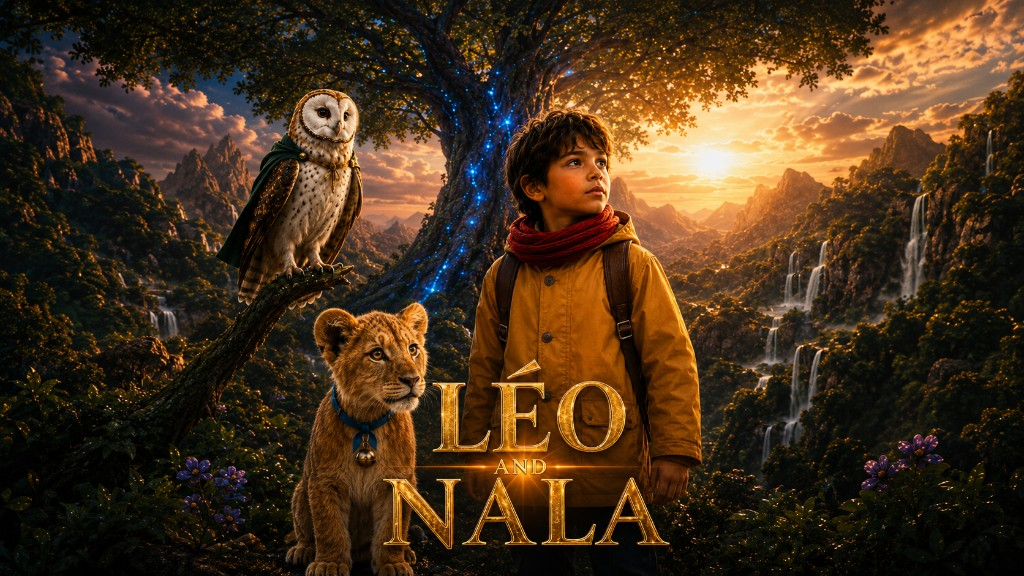
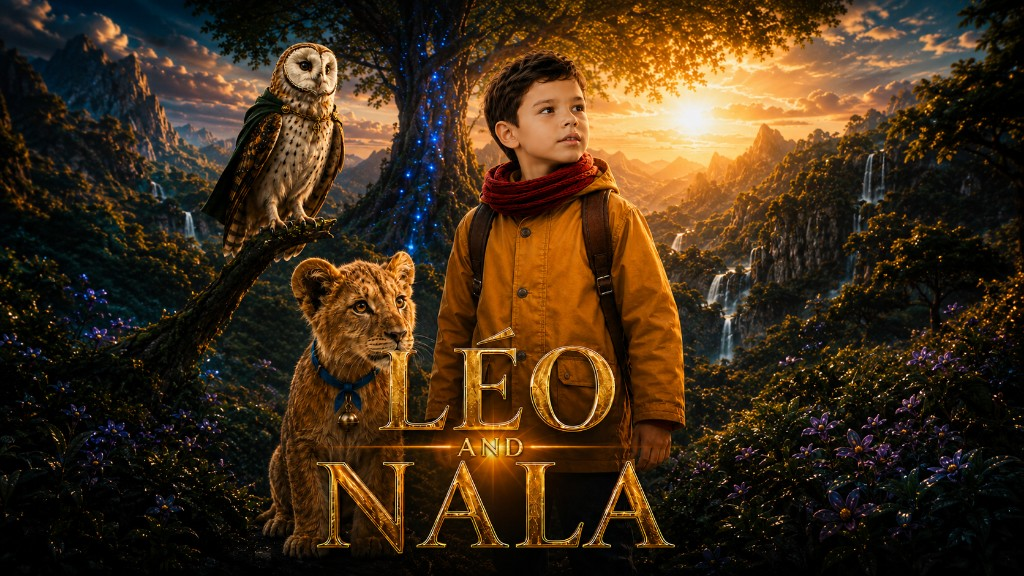
update(examples): nouvelle affiche et miniature vidéo Léo et Nala

diff --git a/src/lib/example-films.ts b/src/lib/example-films.ts
@@ -1,4 +1,7 @@
-import { LEO_ET_NALA_POSTER_SRC } from "@/lib/leo-example-posters";
+import {
+  LEO_ET_NALA_POSTER_SRC,
+  LEO_ET_NALA_VIDEO_POSTER_SRC,
+} from "@/lib/leo-example-posters";
 import type { FilmThemeId } from "@/lib/i18n/film-labels";
 
 export const EXAMPLE_FILM_SLUGS = [
@@ -35,7 +38,7 @@ export const exampleFilms: Record<ExampleFilmSlug, ExampleFilm> = {
     title: "Léo et Nala",
     tagline: "Une amitié magique sur une île déserte",
     posterSrc: LEO_ET_NALA_POSTER_SRC,
-    videoPosterSrc: "/posters/leo-et-nala-video-poster.png",
+    videoPosterSrc: LEO_ET_NALA_VIDEO_POSTER_SRC,
     videoSrc: "https://youtu.be/pK7nOfIM0Gc",
     heroPhotoSrc: LEO_HERO_PHOTO_SRC,
     style: "animation",

diff --git a/src/lib/leo-example-posters.ts b/src/lib/leo-example-posters.ts
@@ -16,7 +16,9 @@ export type HeroPosterAsset = {
 export type LeoExamplePoster = HeroPosterAsset;
 
 /** Bump ?v= when replacing a poster file (cache navigateur / Next.js Image). */
-export const LEO_ET_NALA_POSTER_SRC = "/posters/leo-et-nala.png?v=2";
+export const LEO_ET_NALA_POSTER_SRC = "/posters/leo-et-nala.png?v=3";
+export const LEO_ET_NALA_VIDEO_POSTER_SRC =
+  "/posters/leo-et-nala-video-poster.png?v=2";
 
 /** Affiches réalistes des cinq films d'exemple du petit Léo (accueil + hero). */
 export const LEO_EXAMPLE_POSTERS: LeoExamplePoster[] = [
